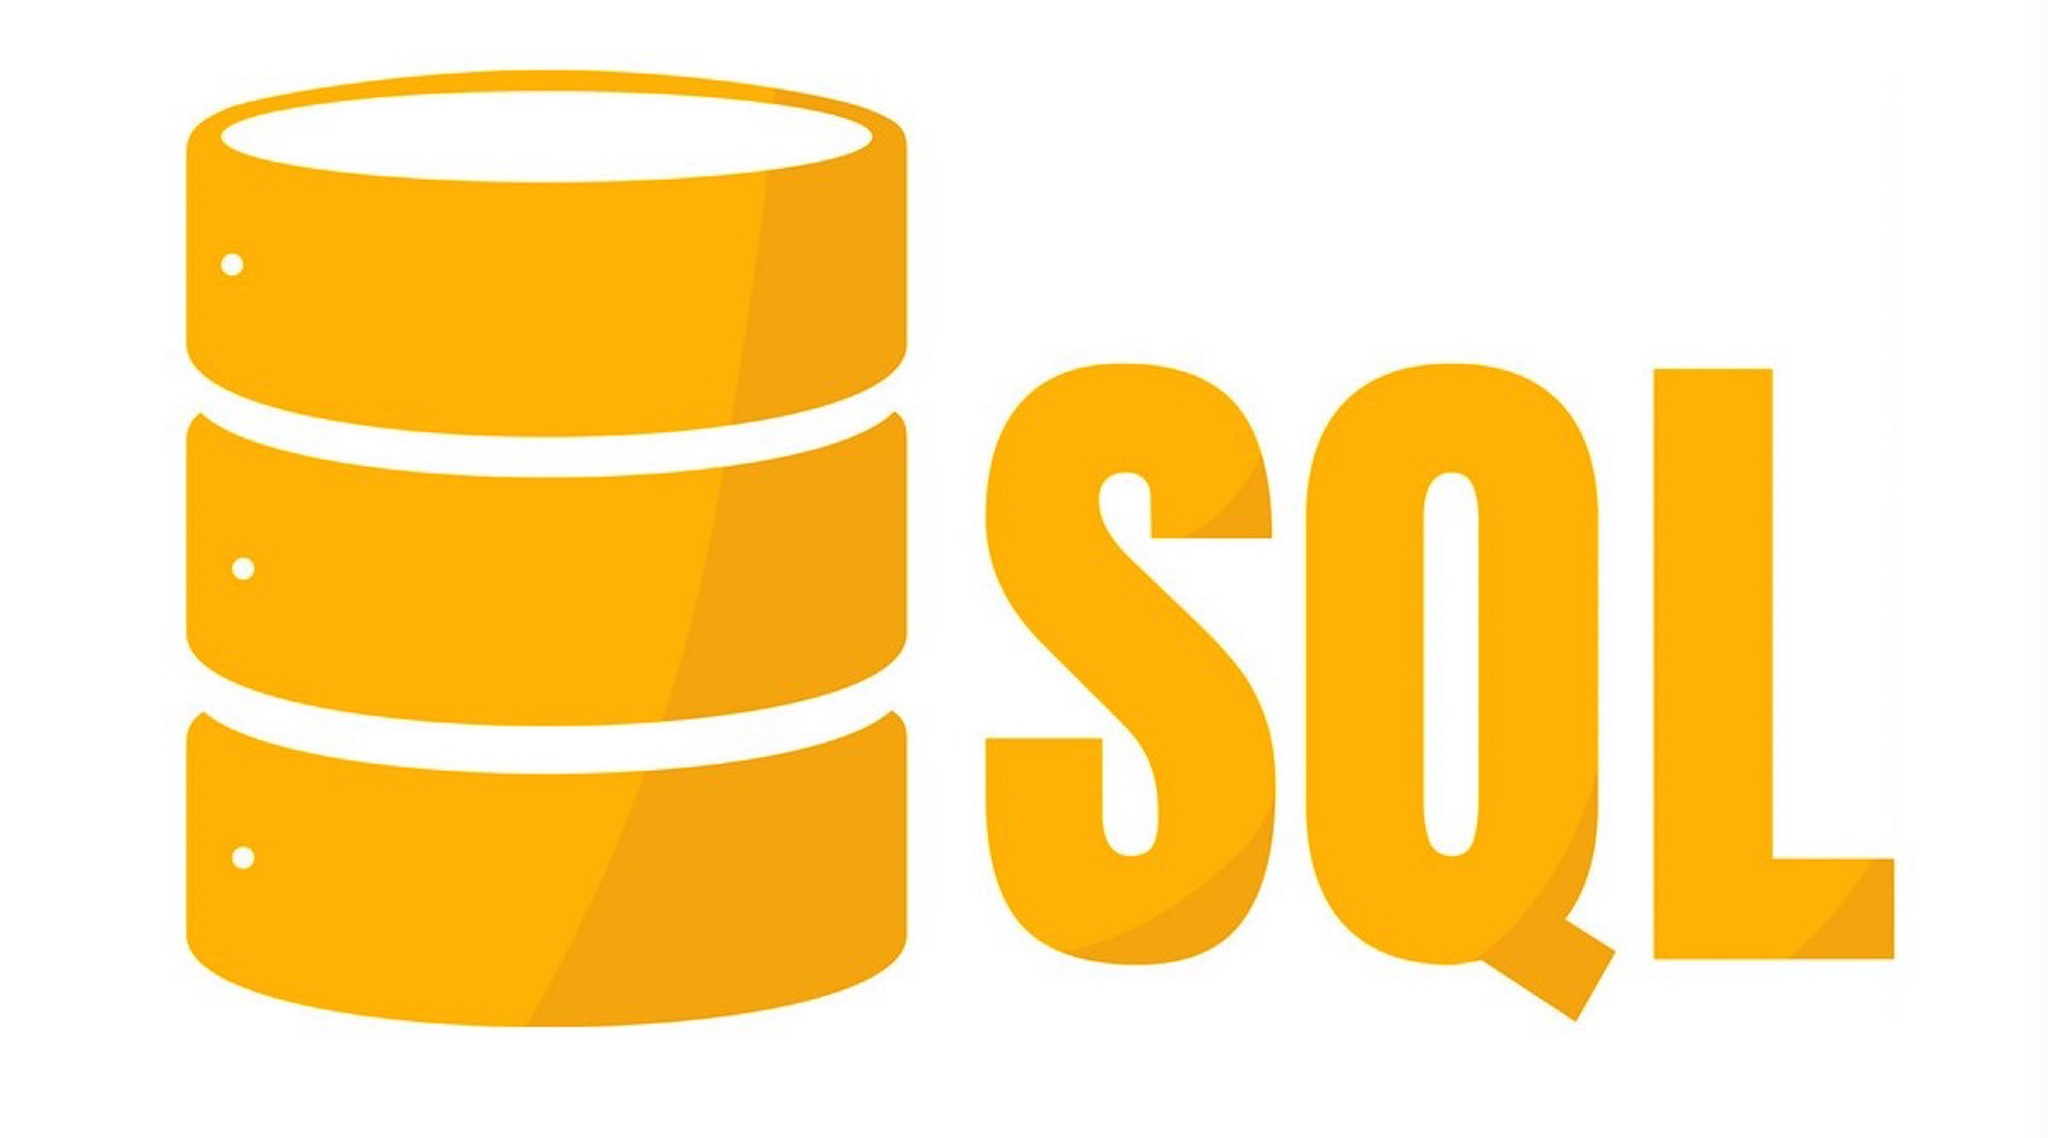
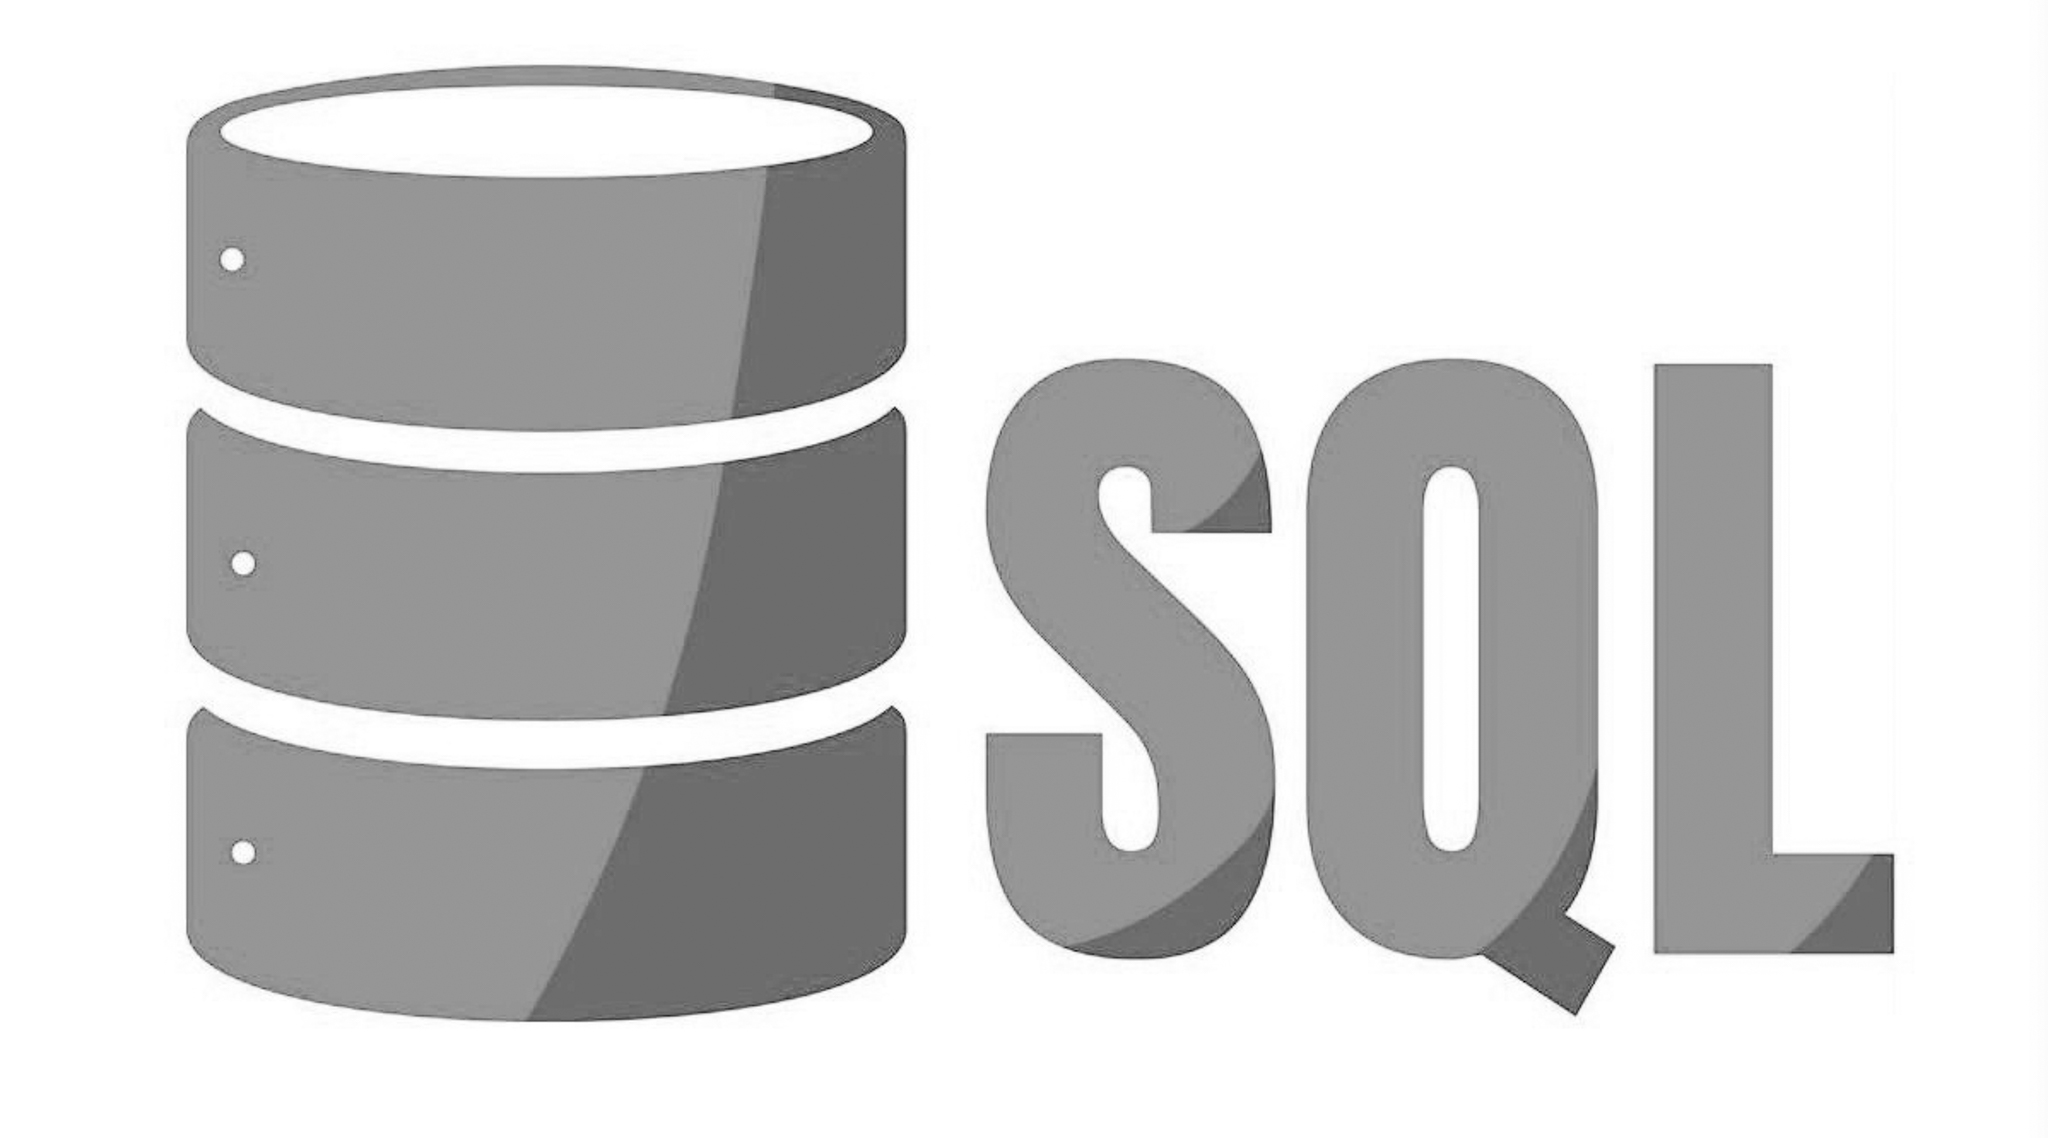
Portfolio Update

diff --git a/docs/index.html b/docs/index.html
@@ -62,7 +62,7 @@
                 <div id="Slideshow_Container">
                     <!--Slide 1 of 6-->
                     <div class="mySlides fade">
-                        <img class="Slideshow_Images" src="images/chase_martin.jpg" alt="Headshot">
+                        <img class="Slideshow_Images" src="images/mountain-2.jpg" alt="Headshot">
                         <div class="text">I am a full-stack software developer!</div>
                     </div>
                     <!-- Slide 2 of 6 -->
@@ -73,7 +73,7 @@
                     <!-- Slide 3 of 6 -->
                     <div class="mySlides fade">
                         <img class="Slideshow_Images" src="images/languages-4.jpg" alt="JavaScript">
-                        <div class="text">JavaScript and its useful libraries,</div>
+                        <div class="text">JavaScript and its various libraries,</div>
                     </div>
                     <!-- Slide 4 of 6 -->
                     <div class="mySlides fade">
@@ -88,10 +88,7 @@
                     <!-- Slide 6 of 6 -->
                     <div class="mySlides fade">
                         <img class="Slideshow_Images" src="images/languages-6.jpg" alt="SQL logo"> 
-                        <div class="text">back end development, databases and SQL.
-                            <br>
-                            <a class="white-text contact" onclick="openForm()">Contact me now!</a>
-                        </div>
+                        <div class="text">back end development, databases and SQL.</div>
                     </div>
                     <a class="Previous" onclick="plusSlides(-1)">&#10094;</a>
                     <a class="Next" onclick="plusSlides(1)">&#10095;</a>
@@ -111,7 +108,7 @@
         <div class="Row" id="About">
             <!--Left Column-->
             <div class="Column_2">
-                <img class="photohover" src="images/chase_martin.jpg" alt="Replace this image">
+                <img class="photohover" src="images/headshot.jpg" alt="Chase Martin">
             </div>
             <!--Right column-->
             <div class="Column_1">

diff --git a/docs/stylesheet/portfolio.css b/docs/stylesheet/portfolio.css
@@ -112,7 +112,7 @@ q {
 
 /* Image elements */
 img {
-    filter: grayscale(20%);
+    filter: grayscale(40%);
     border-radius: 8px;
     max-width: 100%;
     max-height: 100%;
@@ -128,11 +128,11 @@ img:hover {
 } */
 
 .photohover {
-    filter: grayscale(75%);
+    filter: grayscale(95%);
 }
 
 .photohover:hover {
-	filter: grayscale(50%);
+	filter: grayscale(75%);
     transition: transform 0.5s;
 	transform: scale(1.02);
 }
